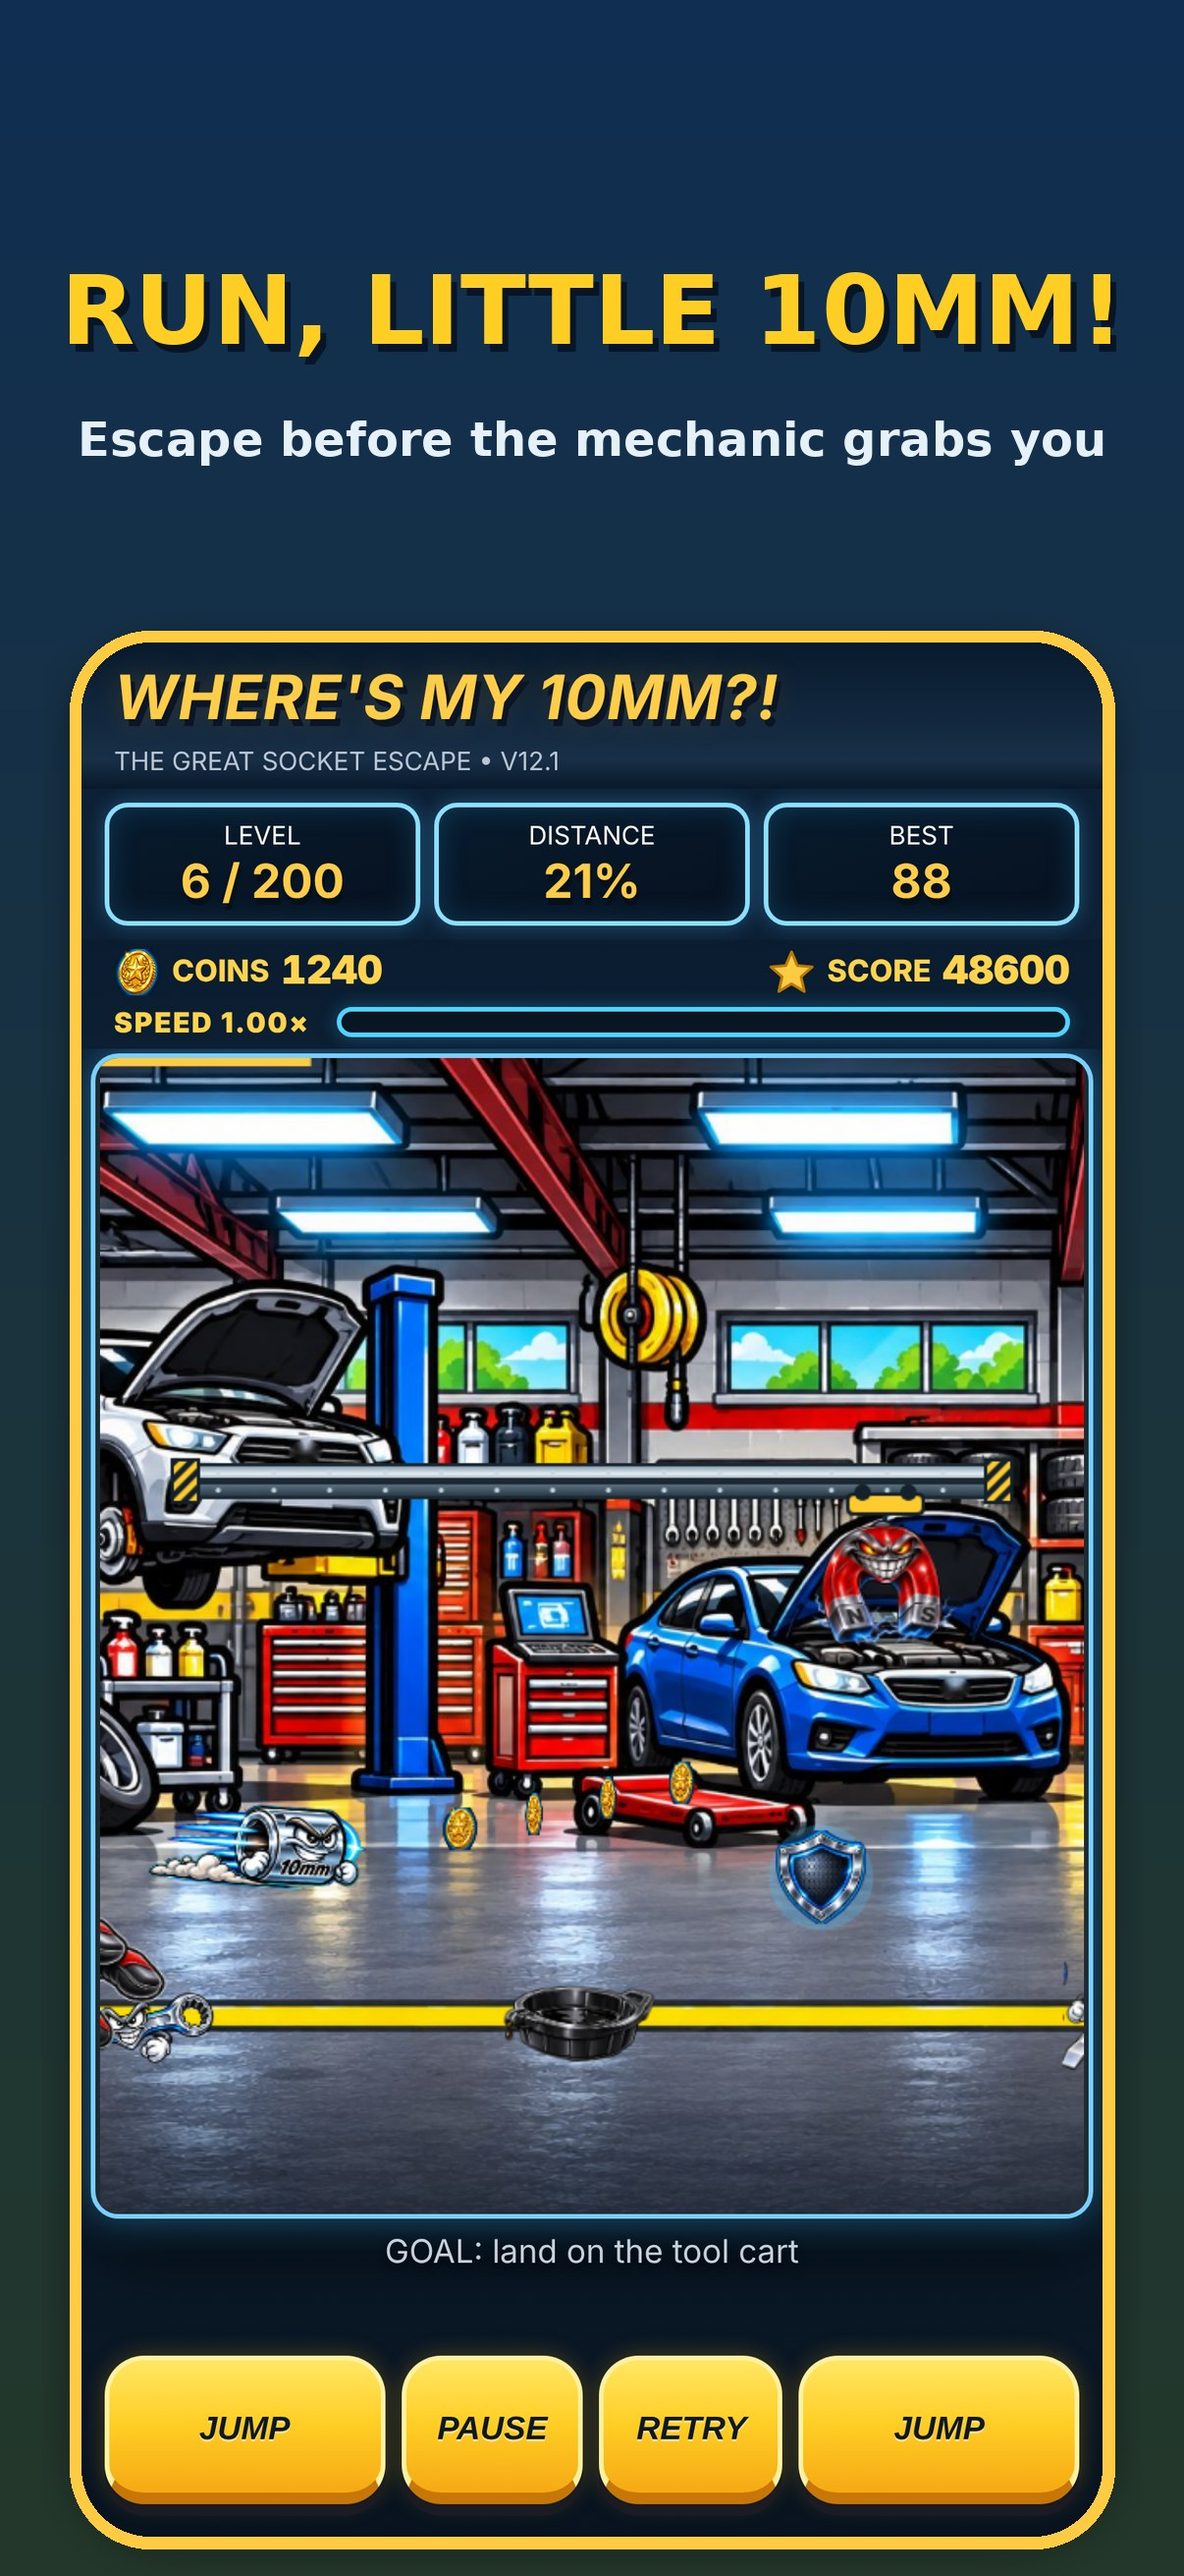
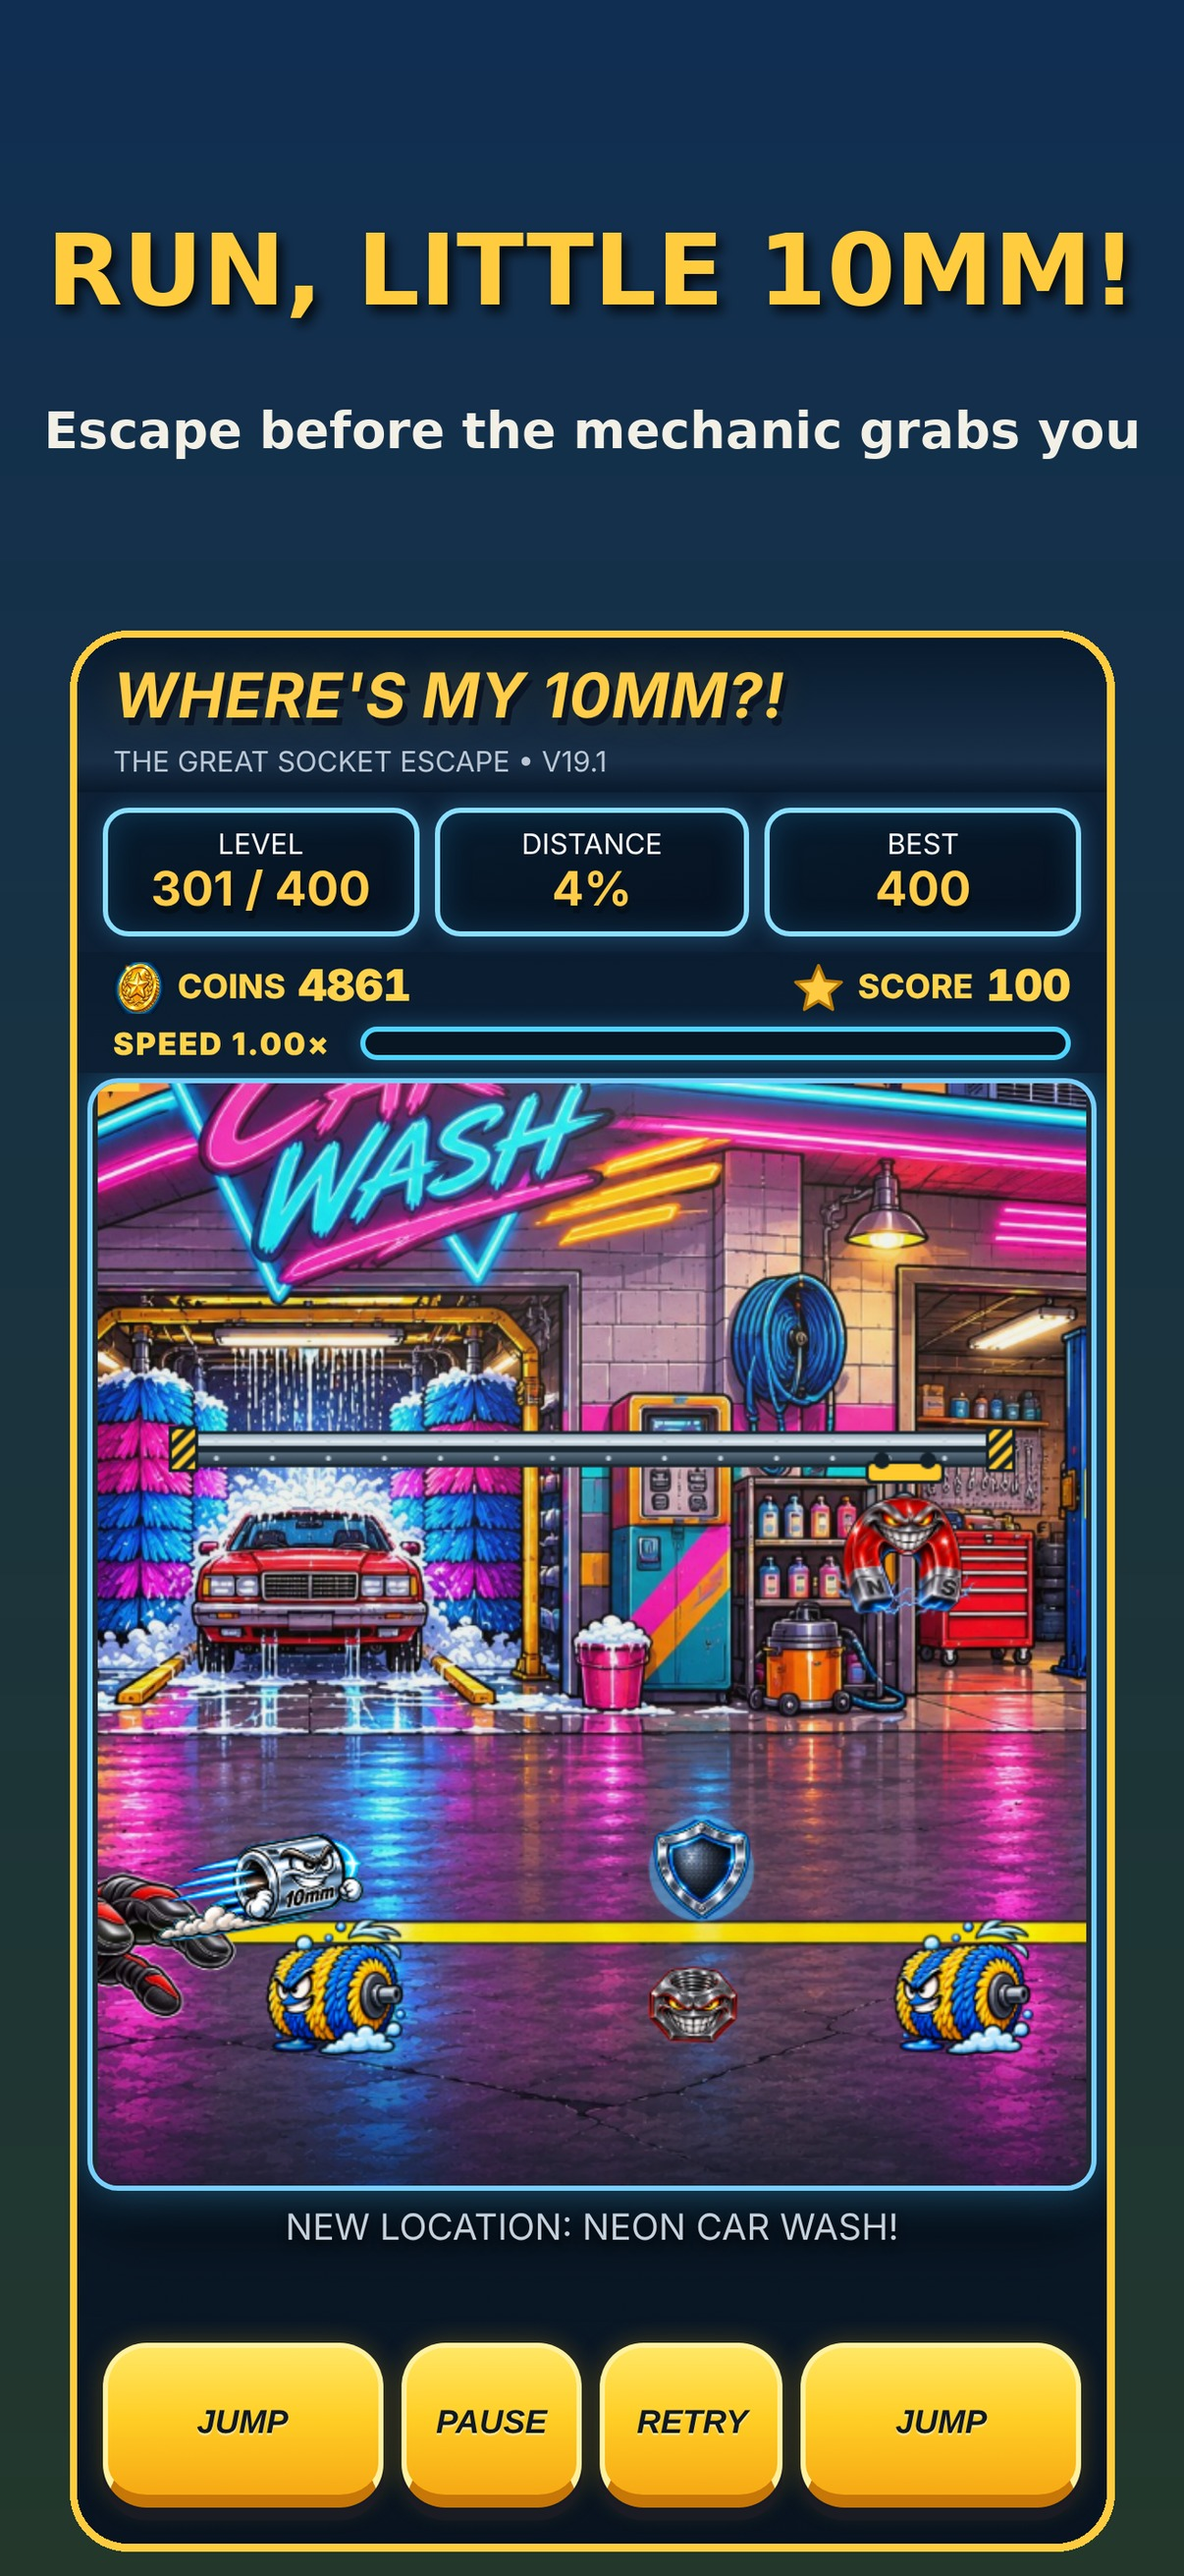
App Store: v1.2 screenshots and listing text (#140)
- 6 new screenshots (6.9" 1320x2868 and 6.3" 1206x2622), captured from the 1.2 release commit bb704b6
- Listing: all 16 locations, bullets for bosses, Service Bay, My Radio, daily challenge, Endless, bonus rounds and Game Center
- New promotional text and What's New for 1.2; screenshot section lists 6 images in both sizes
- Coins line in description and review notes now mentions the optional coin packs

Claude-Session: https://claude.ai/code/session_01AFKMpkU4WxKBTu2So1ft36

diff --git a/store/APP-STORE-LISTING.md b/store/APP-STORE-LISTING.md
@@ -11,7 +11,7 @@
 **Marketing URL (optional):** https://honestechmobilemechanic.com
 
 ## Promotional text (170 max, can change any time)
-Every mechanic has lost a 10mm socket. Now you know why: it's running away! Roll, jump and fly through 400 levels and 16 wild locations.
+NEW: 200 more levels, 8 new locations & My Radio. Play your own music while you run! Turkey Day socket half price all November.
 
 ## Description
 Every mechanic knows the feeling: you set down your 10mm socket for one second… and it's gone.
@@ -21,26 +21,37 @@ Now find out where it goes.
 WHERE'S MY 10MM?! puts you in control of the runaway socket. Roll across the shop floor, jump over wrenches and pliers, dodge the overhead magnet, and stay one step ahead of the mechanic's grabbing glove. Make it to the hiding spot before you get caught!
 
 • 400 LEVELS that get faster and trickier as you go
-• 8 LOCATIONS: the garage, a home driveway, a parking garage, the junkyard, an auto parts store, a dealer service drive, a race pit lane and a snowy roadside
+• 16 LOCATIONS: the garage, a home driveway, a parking garage, the junkyard, an auto parts store, a dealer service drive, a race pit lane, a snowy roadside, the Engine Shop, Main Street Repair, Auto Parts Plaza, the Used Car Lot, the Neon Car Wash, the Salvage Yard, the Service Center and the EV Tech Center
+• BOSS LEVELS: outrun the Air Hammer and double-jump the charging BIG 12
 • NEW HAZARDS in every location: bouncing basketballs, rolling tires, runaway shopping carts, speeding pit jacks, snowballs and more
 • SIMPLE ONE-TAP CONTROLS: tap to jump, double-tap for more height, triple-tap to fly
 • POWER-UPS: shield, slow-mo, speed boost, coin magnet and spring
 • SOCKET SHOP: spend your coins on new finishes like Junkyard Rust, 24K Gold and Neon Blue, plus holiday finishes (Santa, Jack-o-Lantern, Shamrock and more) that go half price in season
+• SERVICE BAY: grab tools and parts in the levels, then do a real oil change or front brake job against the clock
+• MY RADIO: play your own music from Spotify, Apple Music, YouTube Music and more while the game's sound effects play on top
+• DAILY CHALLENGE: a new level every day
+• ENDLESS MODE: see how far you can roll (unlocks after level 25)
+• BONUS ROUNDS: after every 10th level, find the 10mm in a tool drawer before time runs out
+• GAME CENTER: leaderboards and achievements
 • Pick-up-and-play levels that last about a minute
 • Easy, Normal and Hard difficulty, plus one-button and two-button layouts
 
 Made by a real mobile mechanic who has lost more 10mm sockets than he can count.
 
-Free to play with ads. Remove the full-screen ads forever with a one-time purchase.
+Free to play with ads. Remove the full-screen ads forever with a one-time purchase. Optional coin packs are available in the shop.
 
 ## Keywords (100 max, comma-separated, no spaces)
 mechanic,socket,wrench,garage,runner,arcade,jump,tools,car,auto,repair,escape,casual,platformer,funny
 
-## What's New (first release)
-The runaway 10mm socket is here! 200 levels, 8 locations and a socket shop full of shiny finishes.
+## What's New (version 1.2)
+200 NEW LEVELS! The runaway 10mm now has 400 levels to escape.
+• 8 new locations, 16 in all, including the Neon Car Wash and the EV Tech Center
+• New hazards: pistons, creepers, tube men, car-wash brushes, hubcaps, oil drums and EV batteries
+• My Radio: play your own music from Spotify, Apple Music and more
+• Turkey Day socket half price all November
 
 ## Screenshots
-Upload `iphone-6.9-1.jpg` … `iphone-6.9-5.jpg` (1320 × 2868) under **iPhone 6.9" Display**. App Store Connect scales them down for smaller iPhones automatically.
+Upload `iphone-6.9-1.jpg` … `iphone-6.9-6.jpg` (1320 × 2868) under **iPhone 6.9" Display**. If App Store Connect asks for the 6.3" size too, upload `iphone-6.3-1.jpg` … `iphone-6.3-6.jpg` (1206 × 2622).
 
 ## In-App Purchase: Remove Ads
 - Type: Non-Consumable · Product ID: `com.honestech.wheresmy10mm.removeads` · Price: $1.99
@@ -65,7 +76,7 @@ ADS: Google AdMob. A full-screen ad can appear about every 3rd retry, starting a
 
 BONUS ROUNDS: after every 10th level there is a timed bonus round. Find and tap the 10mm socket in a tool drawer before time runs out. Winning gives coins and points, and winning 3 or 6 bonus rounds unlocks two extra socket finishes.
 
-COINS AND SOCKET SHOP: coins are earned in-game only and spent on cosmetic socket finishes. Coins cannot be bought with real money.
+COINS AND SOCKET SHOP: coins are earned in-game and spent in the shop. Optional coin packs (consumable in-app purchases) can also be bought in the shop.
 
 DATA: progress is saved on the device and backed up to the user's own iCloud key-value storage. There is no account and no server. Privacy policy: https://honestechceo.github.io/10mm/privacy.html
 
